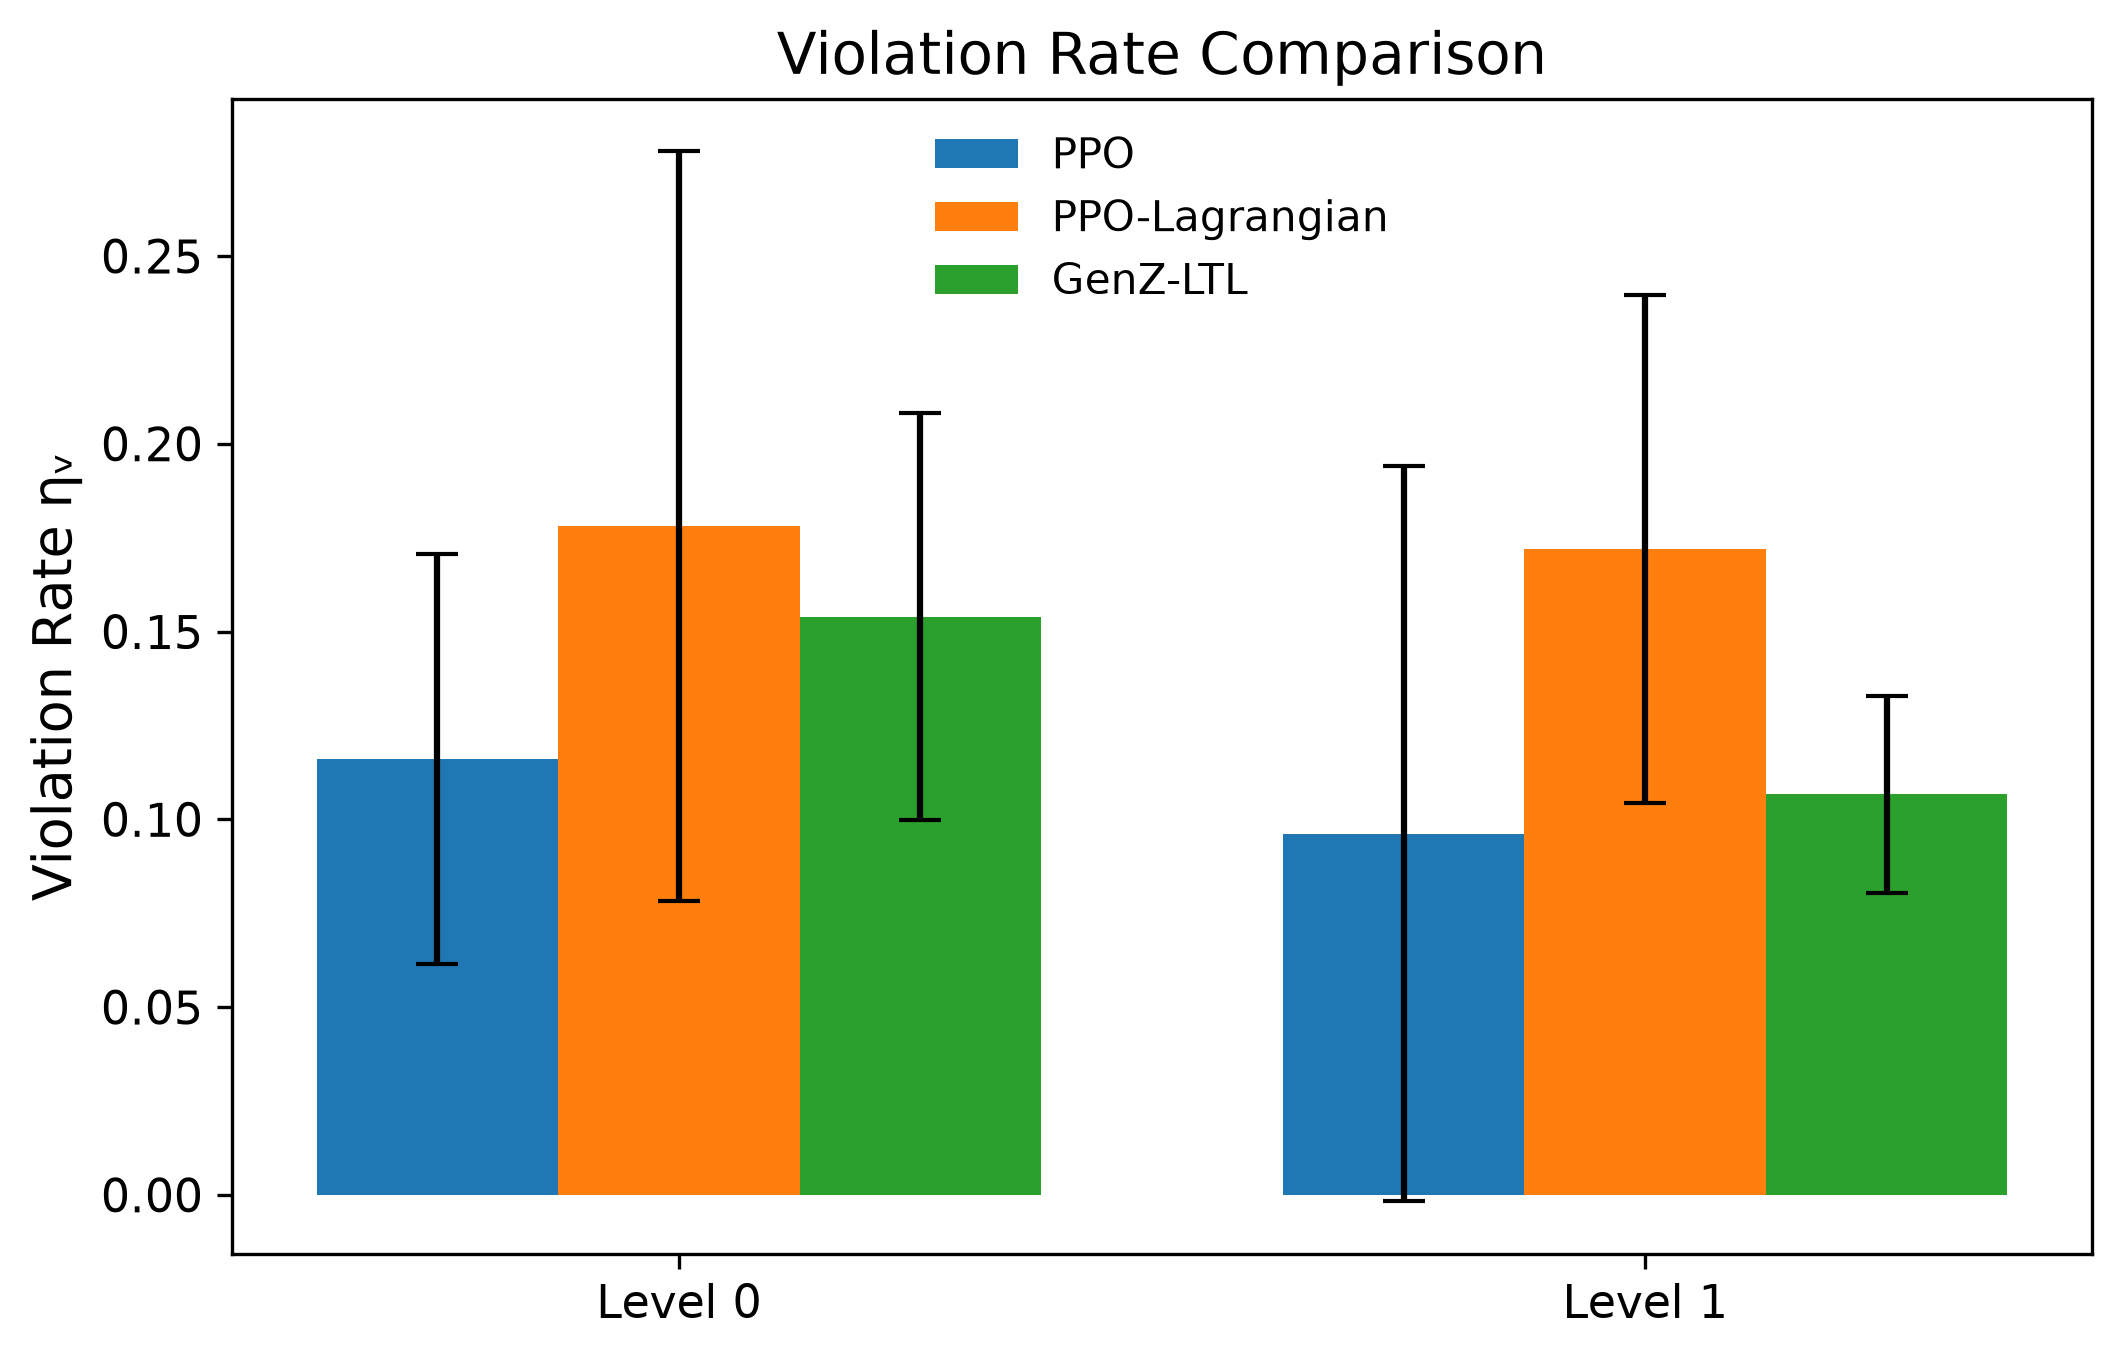
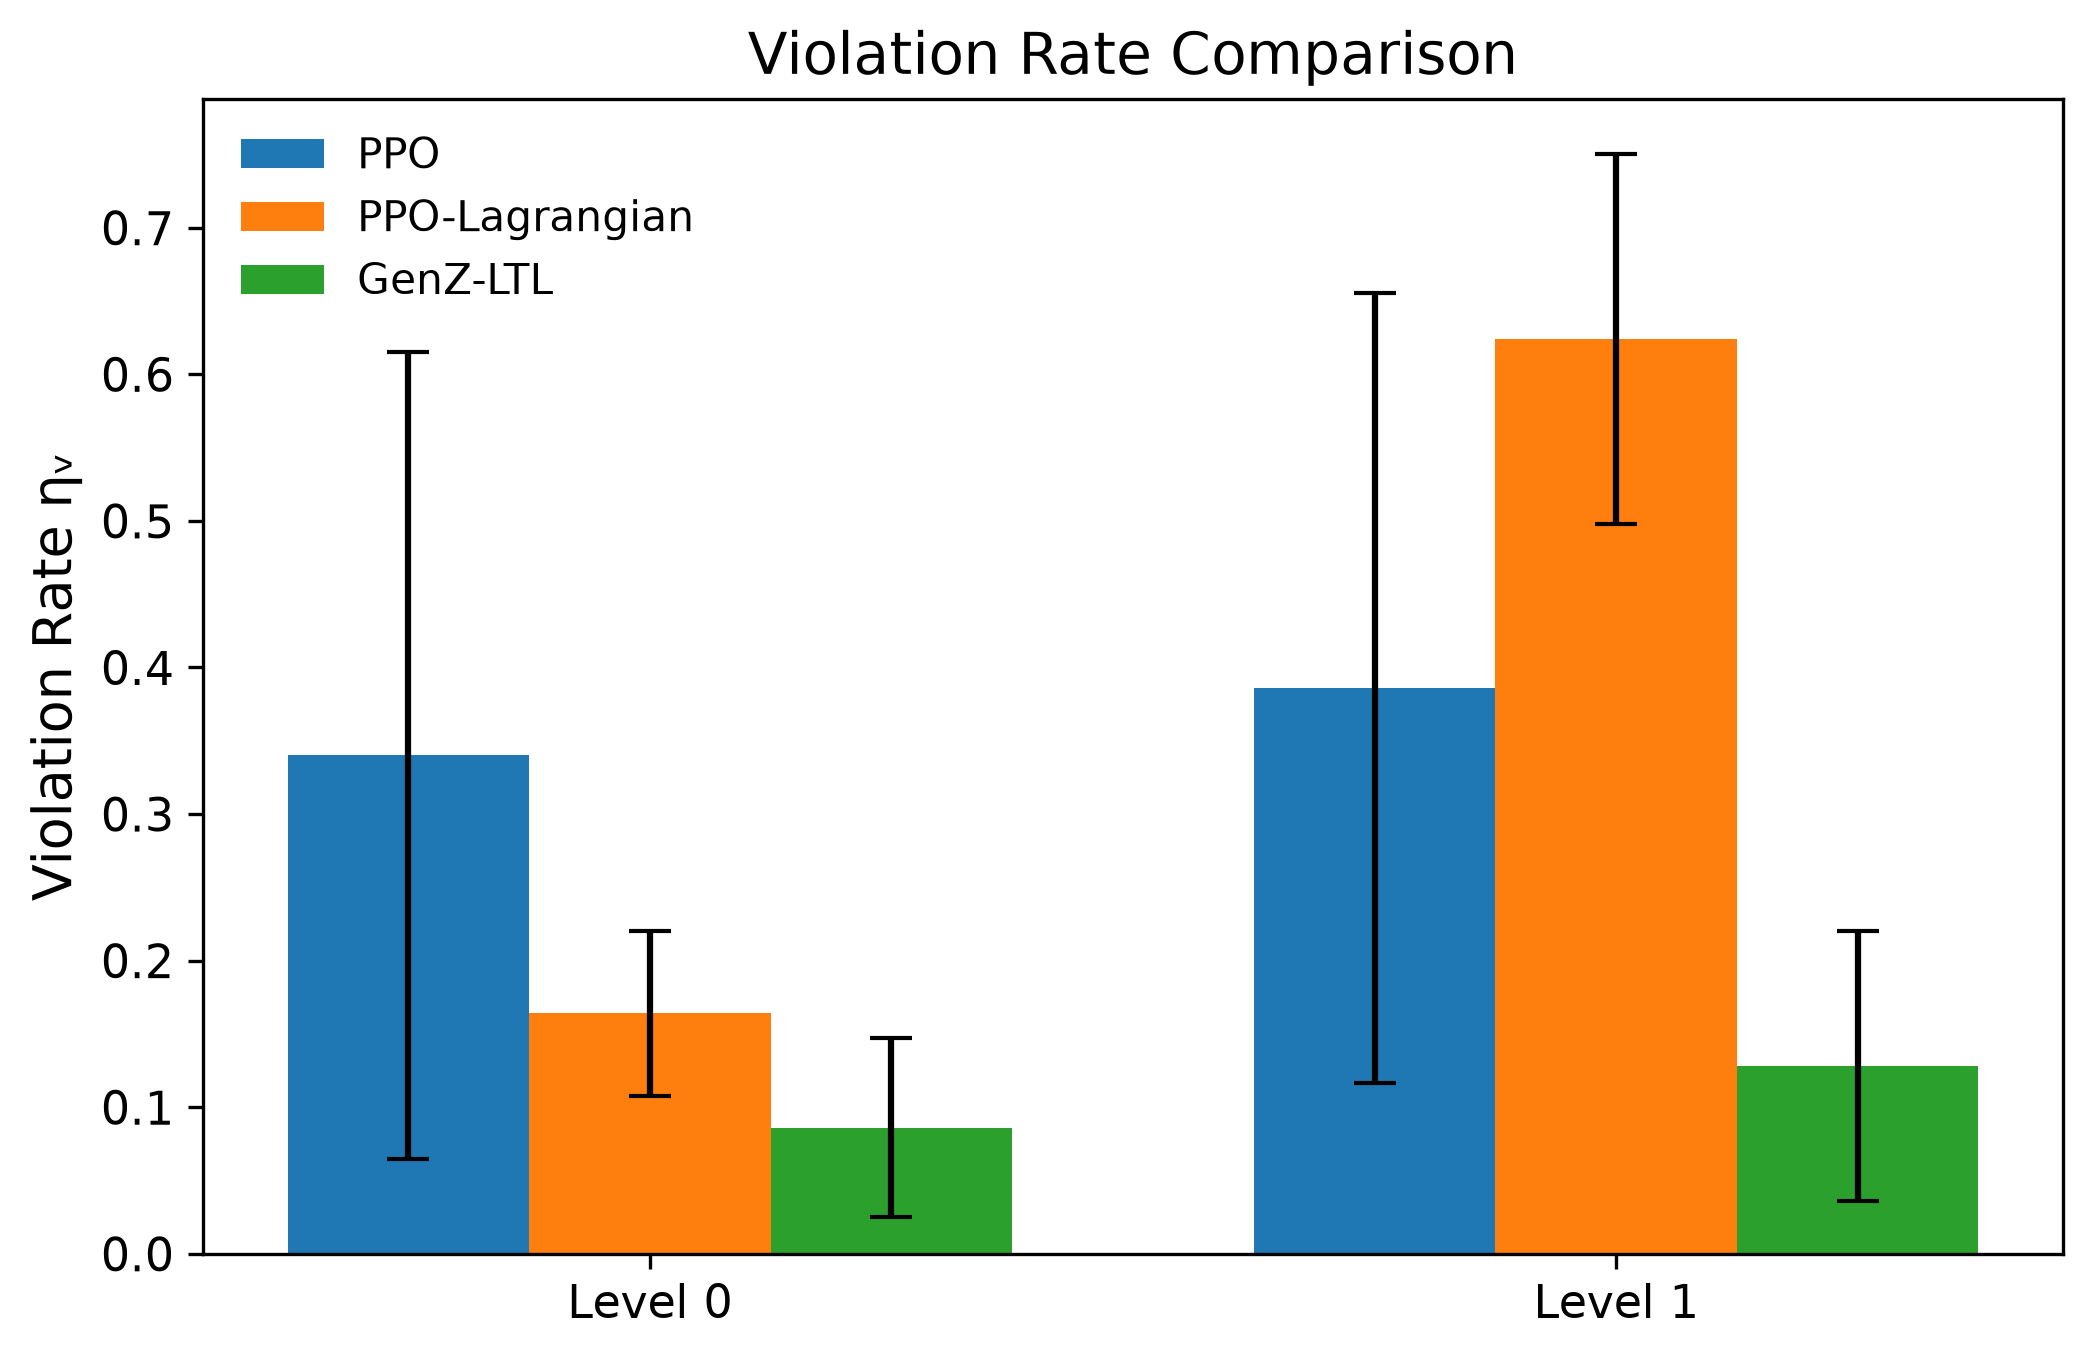
Updated graphics for Level 0/1

diff --git a/RISE-Training/visuals/ltl_graphs.py b/RISE-Training/visuals/ltl_graphs.py
@@ -12,40 +12,40 @@ algorithms = ["PPO", "PPO-Lagrangian", "GenZ-LTL"]
 data = {
     "success": {
         "Level 0": [
-            [0.01,0.00,0.08,0.20,0.06],
-            [0.00,0.23,0.05,0.22,0.24],
-            [0.44,0.46,0.45,0.44,0.45]
+            [0.05, 0.00, 0.02, 0.03, 0.25],
+            [0.14, 0.28, 0.14, 0.33, 0.47],
+            [0.73, 0.85, 0.78, 0.75, 0.78]
         ],
         "Level 1": [
-            [0.01,0.00,0.00,0.00,0.00],
-            [0.00,0.00,0.00,0.00,0.00],
-            [0.07,0.1,0.08]
+            [0.01, 0.01, 0.00, 0.00, 0.00],
+            [0.00, 0.01, 0.03, 0.00, 0.00],
+            [0.09, 0.20, 0.05, 0.14, 0.02]
         ]
     },
 
     "violation": {
         "Level 0": [
-            [0.10,0.13,0.18,0.15,0.02],
-            [0.03,0.19,0.19,0.34,0.14],
-            [0.22,0.18,0.10,0.19,0.08]
+            [0.16, 0.64, 0.71, 0.10, 0.09],
+            [0.19, 0.13, 0.07, 0.21, 0.22],
+            [0.16, 0.05, 0.04, 0.16, 0.02]
         ],
         "Level 1": [
-            [0.03,0.01,0.111,0.05,0.28],
-            [0.25,0.13,0.17,0.07,0.24],
-            [0.12,0.07,0.13]
+            [0.69, 0.74, 0.17, 0.19, 0.14],
+            [0.57, 0.60, 0.57, 0.87, 0.51],
+            [0.13, 0.04, 0.30, 0.11, 0.06]
         ]
     },
 
     "episode_length": {
         "Level 0": [
-            [1586,766,1779,1415,963],
-            [662,837,1538,820,796],
-            [774,712,922,737,837]
+            [1028.8, 1426.0, 1107.3, 1069.2],
+            [1005.4, 941.5, 810.4, 879.1, 892.5],
+            [776.0, 766.718, 890.731, 765.8, 826.974]
         ],
         "Level 1": [
-            [721,467,1869,2319,2275],
-            [922,881,576,787,1114],
-            [567,797,694]
+            [637.0, 625.0],
+            [2259.0, 1169.7],
+            [600.778, 826.75, 708.6, 834.571, 725.0]
         ]
     }
 }
